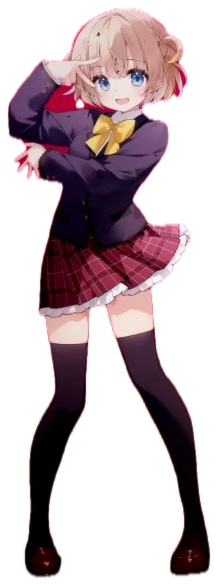
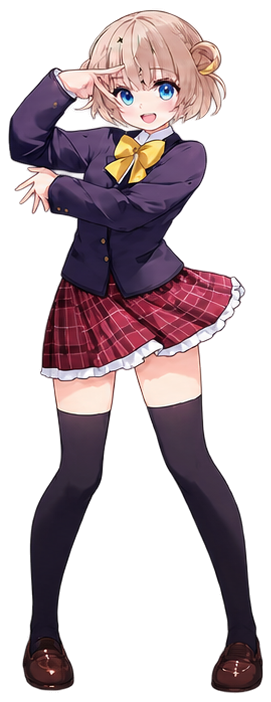
Restore full silhouettes for all four INSIDE IDENTITY performers

diff --git a/pv.js b/pv.js
@@ -65,7 +65,7 @@ const ARTS = {
   // マトリョーシカ：黑底九人立繪由 tools/cutout-matryoshka.py 去背並拼成群像
   matryoshka: {src: 'assets/ref/matryoshka-group.png', crop: [0, 0, 1920, 1080],
     faces: [[300, 300], [530, 300], [740, 300], [960, 300], [1180, 300], [1390, 300], [1570, 300], [1740, 300]]},
-  // INSIDE IDENTITY：使用者提供的封面（紅底撕紙邊），四人由 tools/cutout-inside.py 用 Vision 切出
+  // INSIDE IDENTITY：使用者提供的封面（紅底撕紙邊），四人立繪由 tools/cutout-inside.py 從透明人物圖切出
   inside: {src: 'assets/ref/inside-identity/cover.jpg', crop: [0, 0, 1279, 720],
     faces: [[293, 147], [521, 146], [758, 79], [1013, 130]]}
 };

diff --git a/tools/cutout-inside.py b/tools/cutout-inside.py
@@ -1,117 +1,48 @@
 #!/usr/bin/env python3
-# INSIDE IDENTITY 封面四人：紅底、人物分開站，用 macOS Vision 的前景遮罩（tools/vision-cutout.swift）
-# 逐人切出透明 PNG，輸出 assets/ref/cast/inside-0..3.png 並寫入 cast.json 的 inside 群組。
-# 用法：python3 tools/cutout-inside.py
-import json, os, subprocess, sys
-from PIL import Image
-import numpy as np
-from scipy import ndimage
+"""Build the four INSIDE IDENTITY cast PNGs from the transparent reference sheet."""
+import json
+from pathlib import Path
 
-ROOT = os.path.dirname(os.path.dirname(os.path.abspath(__file__)))
-OUT = os.path.join(ROOT, 'assets/ref/cast')
-MANIFEST = os.path.join(OUT, 'cast.json')
-SRC = os.path.join(ROOT, 'assets/ref/inside-identity/cover.jpg')
-SWIFT = os.path.join(ROOT, 'tools/vision-cutout.swift')
-BIN = '/tmp/vision-cutout'
+from PIL import Image, ImageOps
 
-# 四人由左至右。第三、第四人在 864–866 之間分開：粉色裙擺到 864，金髮的手從 866 開始。
-# 名字照封面署名的順序由左至右對應；若本人順序不同，改這裡再重跑。
-CHARS = [
-    ('白河しらせ', 140, 410),
-    ('ももしき', 400, 660),
-    ('綿宮あひる', 640, 864),
-    ('すいみゃ', 866, 1160),
-]
+ROOT = Path(__file__).resolve().parents[1]
+CAST = ROOT / 'assets/ref/cast'
+SHEET = ROOT / 'assets/ref/inside-identity/lineup.png'
+NAMES = ['白河しらせ', 'ももしき', '綿宮あひる', 'すいみゃ']
+PADDING = 8
 
 
-def clean_caption(a, white_min=185):
-    """封面底部的白色標題「INSIDE MY FEELING」壓在鞋子和地板上，切圖後會留在腳邊。
-    只處理細筆畫的白色連通域（襪子是大面積，不會被動到）：
-    周圍是透明（地板）就把 alpha 設 0；壓在鞋上的字則用最近的像素補色。"""
-    alpha = a[:, :, 3].astype(np.int16)
-    rgb = a[:, :, :3]
-    mx, mn = rgb.max(axis=2).astype(np.int16), rgb.min(axis=2).astype(np.int16)
-    white = (mn > white_min) & ((mx - mn) < 40)
-    white[:620] = False
-    lab, n = ndimage.label(white)
-    if not n:
-        return a
-    sizes = ndimage.sum(white, lab, range(1, n + 1))
-    text = np.isin(lab, [i + 1 for i, s in enumerate(sizes) if s < 2200])
-    if not text.any():
-        return a
-    # 把字幕（連同外圍的深色描邊）整片用「最近的非字幕像素」補掉：
-    # 紅地板上的字直接去掉 alpha；鞋面上的字則被補成鞋子的顏色。
-    mask = ndimage.binary_dilation(text, iterations=3)
-    idx = ndimage.distance_transform_edt(mask, return_distances=False, return_indices=True)
-    nearest = rgb[idx[0], idx[1]]
-    r, g, b = nearest[:, :, 0].astype(np.int16), nearest[:, :, 1].astype(np.int16), nearest[:, :, 2].astype(np.int16)
-    floor = mask & (r > g + 40) & (r > b + 20)
-    alpha[floor] = 0
-    fill = mask & ~floor
-    rgb[fill] = nearest[fill]
-    a[:, :, 3] = np.clip(alpha, 0, 255).astype(np.uint8)
-    return a
-
-
-def ensure_binary():
-    if os.path.exists(BIN) and os.path.getmtime(BIN) >= os.path.getmtime(SWIFT):
-        return
-    subprocess.run(['swiftc', '-O', SWIFT, '-o', BIN], check=True)
-
-
-def cut_one(im, x0, x1, name, index):
-    band = im.crop((x0, 0, x1, im.height))
-    tmp_in = f'/tmp/inside-band-{index}.jpg'
-    tmp_out = f'/tmp/inside-band-{index}'
-    band.save(tmp_in, quality=96)
-    subprocess.run([BIN, tmp_in, tmp_out], check=True, stdout=subprocess.DEVNULL)
-    part = Image.open(tmp_out + '.png').convert('RGBA')
-    a = clean_caption(np.array(part), 150 if index == 2 else 185)
-    alpha = a[:, :, 3]
-    # 只留最大連通域：切邊時夾到的鄰人指尖、背景殘片都會被去掉
-    solid = alpha > 24
-    lab, n = ndimage.label(solid)
-    if n > 1:
-        sizes = ndimage.sum(solid, lab, range(1, n + 1))
-        keep = int(np.argmax(sizes)) + 1
-        alpha = np.where(lab == keep, alpha, 0).astype(np.uint8)
-    # 邊緣羽化一格，避免鋸齒
-    soft = ndimage.gaussian_filter(alpha.astype(np.float32), 0.7)
-    a[:, :, 3] = np.clip(np.minimum(alpha.astype(np.float32) + 12, soft * 1.06), 0, 255).astype(np.uint8)
-    cut = Image.fromarray(a, 'RGBA')
-    ys, xs = np.where(a[:, :, 3] > 24)
-    if len(xs) == 0:
-        raise RuntimeError(f'{name}: 沒有前景')
-    pad = 8
-    bx0, by0 = max(0, xs.min() - pad), max(0, ys.min() - pad)
-    bx1, by1 = min(cut.width, xs.max() + 1 + pad), min(cut.height, ys.max() + 1 + pad)
-    cut = cut.crop((bx0, by0, bx1, by1))
-    file = f'inside-{index}.png'
-    cut.save(os.path.join(OUT, file))
-    top = np.array(cut)[:, :, 3] > 128
-    band_top = top[:max(1, int(cut.height * .14))]
-    yy, xx = np.where(band_top)
-    head_x = int(round(xx.mean())) if len(xx) else cut.width // 2
-    head_y = int(round(cut.height * .10))
-    return {'file': file, 'w': cut.width, 'h': cut.height,
-            'headX': head_x, 'headY': head_y,
-            'source': [int(x0 + bx0), int(by0)], 'sheet': 'inside-ref',
-            'name': name, 'intact': True}, cut
+def cut(sheet, index, name):
+    left = sheet.width * index // len(NAMES)
+    right = sheet.width * (index + 1) // len(NAMES)
+    cell = sheet.crop((left, 0, right, sheet.height))
+    # Remove almost transparent generation noise while keeping antialiased edges.
+    alpha = cell.getchannel('A').point(lambda value: value if value > 8 else 0)
+    bounds = alpha.getbbox()
+    if not bounds or bounds[0] == 0 or bounds[2] == cell.width:
+        raise ValueError(f'{name}: missing transparent gutter')
+    cell.putalpha(alpha)
+    sprite = ImageOps.expand(cell.crop(bounds), border=PADDING, fill=(0, 0, 0, 0))
+    filename = f'inside-{index}.png'
+    sprite.save(CAST / filename)
+    head = sprite.getchannel('A').crop((0, 0, sprite.width, round(sprite.height * .14)))
+    head_left, _, head_right, _ = head.point(lambda value: 255 if value > 128 else 0).getbbox()
+    return {
+        'file': filename, 'w': sprite.width, 'h': sprite.height,
+        'headX': (head_left + head_right) // 2, 'headY': round(sprite.height * .10),
+        'source': [left + bounds[0] - PADDING, bounds[1] - PADDING],
+        'sheet': 'inside-ref', 'name': name, 'intact': True,
+    }
 
 
 def main():
-    ensure_binary()
-    im = Image.open(SRC).convert('RGB')
-    entries = []
-    for i, (name, x0, x1) in enumerate(CHARS):
-        e, _ = cut_one(im, x0, x1, name, i)
-        entries.append(e)
-        print(f'{e["file"]:14s} {e["w"]}x{e["h"]} head=({e["headX"]},{e["headY"]}) source={e["source"]} {name}')
-    data = json.load(open(MANIFEST, encoding='utf-8'))
-    data['inside'] = entries
-    json.dump(data, open(MANIFEST, 'w', encoding='utf-8'), ensure_ascii=False, indent=1)
-    print('cast.json → inside 群組已更新')
+    manifest = CAST / 'cast.json'
+    data = json.loads(manifest.read_text(encoding='utf-8'))
+    with Image.open(SHEET) as sheet:
+        if sheet.mode != 'RGBA':
+            raise ValueError(f'{SHEET.name} requires an alpha channel')
+        data['inside'] = [cut(sheet, i, name) for i, name in enumerate(NAMES)]
+    manifest.write_text(json.dumps(data, ensure_ascii=False, indent=1), encoding='utf-8')
 
 
 if __name__ == '__main__':

diff --git a/README.md b/README.md
@@ -242,7 +242,7 @@ macOS 也可雙擊 `啟動播放器.command`，會在終端機啟動伺服器並
 
 已加入歌詞 PV（編號 70，約 260.37 秒）與第二版播放器，為 TV 動畫《中二病でも恋がしたい！》的 ED；使用者提供的是白河しらせ・ももしき・綿宮あひる・すいみゃ 四人的翻唱版，`ver` 沿用原唱 Black Raison d’être。歌詞由使用者提供，時間軸以 `tools/asr.py`（large-v3-turbo）取得，ASR 把「可愛い～って誰かが言って／となりでこだまして」這類句子拆成兩段，字幕照歌詞合回一句；6.1–17.0、89.0–99.7、161.5–182.1 是間奏。可用 `node tools/build-inside-subtitles.mjs` 重建 SRT。
 
-封面（`assets/ref/inside-identity/cover.jpg`，1279×720）的紅底撕紙邊直接當歌詞 PV 的主視覺；四位角色由 `tools/cutout-inside.py` 切出：呼叫 macOS Vision 的前景遮罩（`tools/vision-cutout.swift`）逐人取出，第三、第四人在 864–866 之間分開，只留最大連通域避免夾到鄰人。封面底部的白色標題「INSIDE MY FEELING」壓在鞋子上，切圖時依「字壓在紅地板還是鞋面」分別去掉 alpha 或補色。角色順序照封面署名由左至右對應，`cast` 索引 0–3 為主唱預設。人物 PV 沿用同一組四張精靈（`lineup:true`），主題 `inside` 走暗紅到緋紅。
+歌詞 PV 的主視覺採用原版紅底封面 `assets/ref/inside-identity/cover.jpg`。四位歌手的全身立繪依封面與影片畫面重繪，存於透明人物圖 `assets/ref/inside-identity/lineup.png`。執行 `python3 tools/cutout-inside.py` 可重建四張切圖與清單。歌詞 PV、人物 PV、切圖頁與第二版播放器共用這組立繪。
 
 ### 明日へのBreakShoot：葉山陽和 ver.
 
